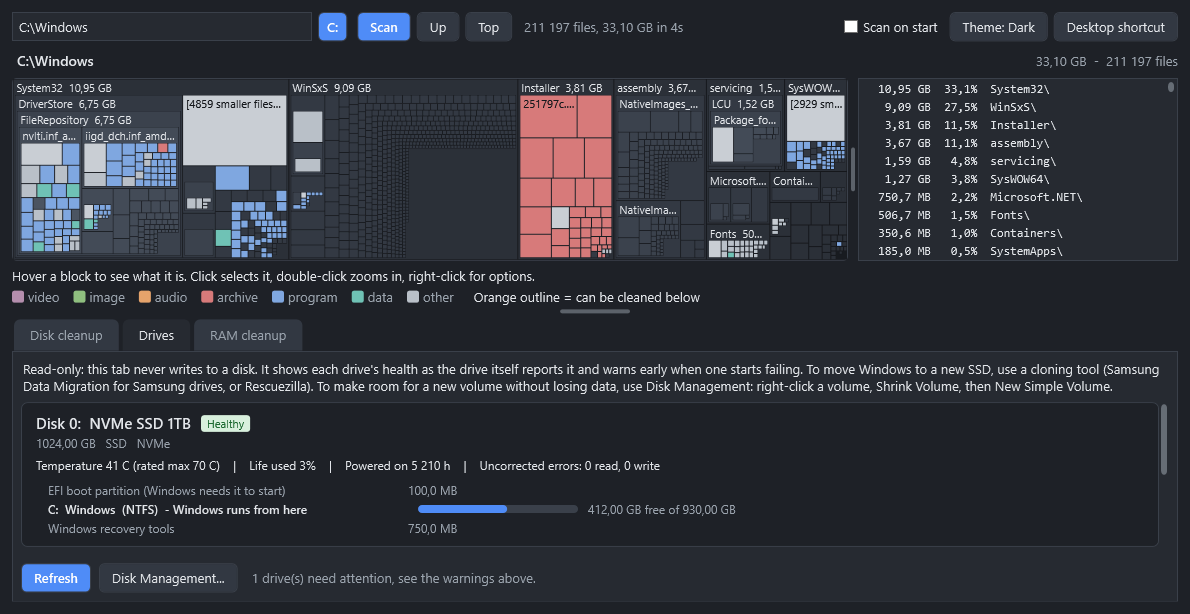
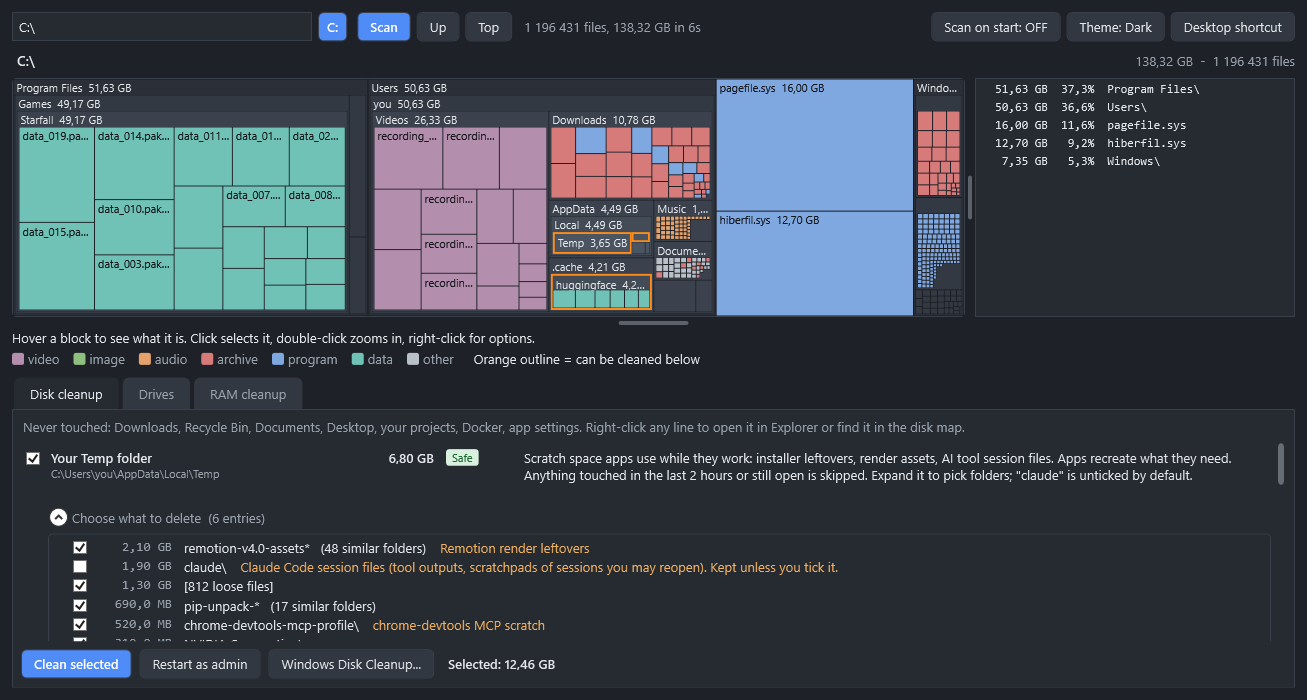
README: describe all current features; screenshot from example data
- Screenshot mode builds a made-up drive and cleanup list (C:\Users\you),
  shows the front tab with the "Choose what to delete" tree open, and
  uses a fixed window size so pictures match on any screen
- README rewritten around the four tabs, comfort features and safety

diff --git a/README.md b/README.md
@@ -1,67 +1,75 @@
 # DiskTidy
 
-A small Windows app that shows what fills your disk and cleans the junk safely. It also explains every item before you delete it.
+A small Windows app that shows what fills your disk and cleans the junk safely. It explains every item before you delete it.
 
-![DiskTidy in the dark theme](docs/screenshot.png)
+![DiskTidy: disk map on top, cleanup list below (example data)](docs/screenshot.png)
 
-**No install, no dependencies.** It is one PowerShell script that uses only what ships with Windows 10/11 (PowerShell 5.1, WPF and the built-in C# compiler).
+*The screenshot shows example data, not a real PC.*
 
-## What it does
+**No install, no dependencies, no internet.** It is one PowerShell script that uses only what ships with Windows 10/11 (PowerShell 5.1, WPF and the built-in C# compiler). It never connects anywhere, so nothing about your PC leaves it.
 
-**Disk map (like WizTree / WinDirStat)**
-- Scans only when you press Scan (or tick "Scan on start"), using at most half your CPU cores.
-- Scans a drive or folder and draws it as a treemap: the bigger the block, the bigger the folder or file. Files are coloured by type.
-- Hover over a block to outline it and see its path and size. Click to select, double-click to zoom in.
-- The breadcrumb at the top jumps back to any parent. Backspace or the mouse back button also go up a level.
-- Right-click opens a block in Explorer.
-- Folders that the cleanup list can empty get an orange outline.
+**[Download the latest release](https://github.com/Olexify/DiskTidy/releases/latest)**, unzip it anywhere, and double-click `DiskTidy.cmd`.
 
-**Disk cleanup**
-- About 30 known places where Windows, browsers, dev tools and apps leave caches and leftovers. Each one shows its size, a **Safe** or **Caution** badge, and a plain explanation of what it is and what happens if you delete it.
-- Expand any item to choose what to delete. Folders inside show up as a tree with tri-state checkboxes. Look-alike folders, such as hundreds of `render-assets-xxxx` folders, collapse into one line.
+## Disk cleanup
+
+- About 30 known places where Windows, browsers, dev tools and apps pile up caches and leftovers: Temp folders, crash dumps, npm, pip, uv, Cargo and Go caches, GPU shader caches, Chrome, Edge and desktop-app caches, old update files, and more.
+- Each one shows its real location, its size, a **Safe** or **Caution** badge, and a plain explanation of what it is and what happens if you delete it.
+- **Pick exactly what goes.** Expand any item to see what's inside as a tree with checkboxes. Untick a folder to keep it, or open it and untick only part of it.
+- Hundreds of look-alike folders, such as render leftovers named `assets-x7f3…`, collapse into one line.
+- Folders worth keeping start unticked, for example the session files of AI coding tools.
+- Drag the grip under any list to make it taller.
 - Right-click any line to open it in Explorer or find it in the disk map.
 
-**RAM cleanup** (optional, nothing ticked by default)
-- Trims the memory of the apps you pick, like Mem Reduct. Nothing closes and no data is lost. The app just reloads its memory when you switch back.
-- "Clear standby cache" drops cached file data from RAM. This one needs admin.
+## Disk map
 
-**Drives** (read-only, it never writes to a disk)
-- Every physical disk with its health, temperature, SSD life used, power-on hours and uncorrected read/write errors. Temperature, life used and error counts need admin.
-- Plain-language warnings when a drive starts failing, such as "copy your files off now".
+- A treemap of any drive or folder, like WizTree or WinDirStat: the bigger the block, the more space it takes. Files are coloured by type, and folders the cleanup list can empty get an orange outline.
+- Hover over a block to outline it and see its path and size. Click to select, double-click to zoom in.
+- Clickable breadcrumbs at the top jump back to any parent folder. Backspace or the mouse back button go up one level.
+- Right-click a block to open it in Explorer or zoom.
+- It scans only when you press **Scan** or a drive button, using at most half your CPU cores. Turn on **Scan on start** if you want it to scan every time it opens.
+
+## Drives (read-only)
+
+- Every physical disk with its health, temperature, SSD life used, power-on hours and errors the drive could not fix. Temperature, life used and error counts need admin.
+- Plain warnings when a drive starts failing, for example "copy your important files off it now".
 - Partitions with free-space bars, including which one Windows runs from.
-- Buttons for Disk Management (shrink a volume, create a new one) and for any disk tools you already have installed (Samsung Magician, Data Migration, CrystalDiskInfo, Rescuezilla and others).
-- DiskTidy does not clone drives or resize partitions itself. Use a proven cloning tool for that.
+- Buttons for Disk Management (shrink a volume, create a new one) and for disk tools you already have installed, such as Samsung Magician, CrystalDiskInfo or Rescuezilla.
+- DiskTidy never writes to a disk here. To move Windows to a new SSD, use a cloning tool.
 
-**Other features**
-- Four themes: Light, Dark, Midnight, Sand.
+## RAM cleanup (optional)
+
+- Trims the memory of the apps you pick, like Mem Reduct. Nothing closes and no data is lost. A trimmed app just reloads its memory when you switch back. Nothing is ticked by default.
+- **Clear standby cache** drops cached file data from RAM. It needs admin.
+
+## Comfort
+
+- Four themes: Light, Dark, Midnight and Sand.
 - Ctrl + mouse wheel zooms the whole window, and Ctrl+0 resets it.
+- Drag the dividers to resize the map, its side list and the panel below.
+- Theme, zoom, divider sizes and the cleanup list's scroll position are remembered between launches.
+- **Desktop shortcut** creates a desktop shortcut with the app's icon.
 
 ## Safety rules
 
-- **Never touched:** Downloads, Recycle Bin, Documents, Desktop, your projects, Docker, app settings, logins.
+- **Never touched:** Downloads, Recycle Bin, Documents, Desktop, your projects, Docker, app settings and logins.
 - Files changed in the last 2 hours, and files an app has open, are skipped. That makes it safe to run without rebooting.
 - Junctions and symlinks are never followed, so a link can't lead it outside the folder being cleaned.
 - Items marked **Caution** (AI models, IDE indexes, build caches) start unticked. Deleting them is harmless, but they get downloaded or rebuilt the next time something needs them.
 - Before deleting, it asks you to confirm and shows the size of every item.
 
-## Run it
-
-1. Download the repo (Code → Download ZIP) and unzip it anywhere.
-2. Double-click `DiskTidy.cmd`.
-3. Optional: click **Desktop shortcut** in the app for a shortcut with the proper icon.
-
 Some items (Windows Temp, Windows Update downloads, memory dumps) need admin. Click **Restart as admin** in the app.
 
-To check that the cleanup logic still works after you change something, run the built-in self-test:
+## For developers
+
+To check that the cleanup logic still works after you change something, run the built-in self-test. It covers the treemap maths, cleaning with unticked and part-ticked folders, junction safety, look-alike grouping, drive warnings and RAM info:
 
 ```powershell
 powershell -ExecutionPolicy Bypass -File DiskTidy.ps1 -SelfTest
 ```
 
-## How it works
-
-- `DiskTidy.ps1` holds the whole app. The window is WPF in XAML. Scanning, the treemap layout, cleaning and RAM trimming are inline C#, compiled when the app starts, so scans of a few hundred thousand files take seconds.
-- Settings (theme and zoom) are saved to `%APPDATA%\DiskTidy\settings.json`.
+- `DiskTidy.ps1` holds the whole app. The window is WPF in XAML. Scanning, the treemap layout, cleaning and RAM trimming are inline C#, compiled when the app starts.
+- Settings are saved to `%APPDATA%\DiskTidy\settings.json`.
+- `-Shot <file.png>` saves a screenshot built from example data only. It's used for this README.
 
 ## License
 
